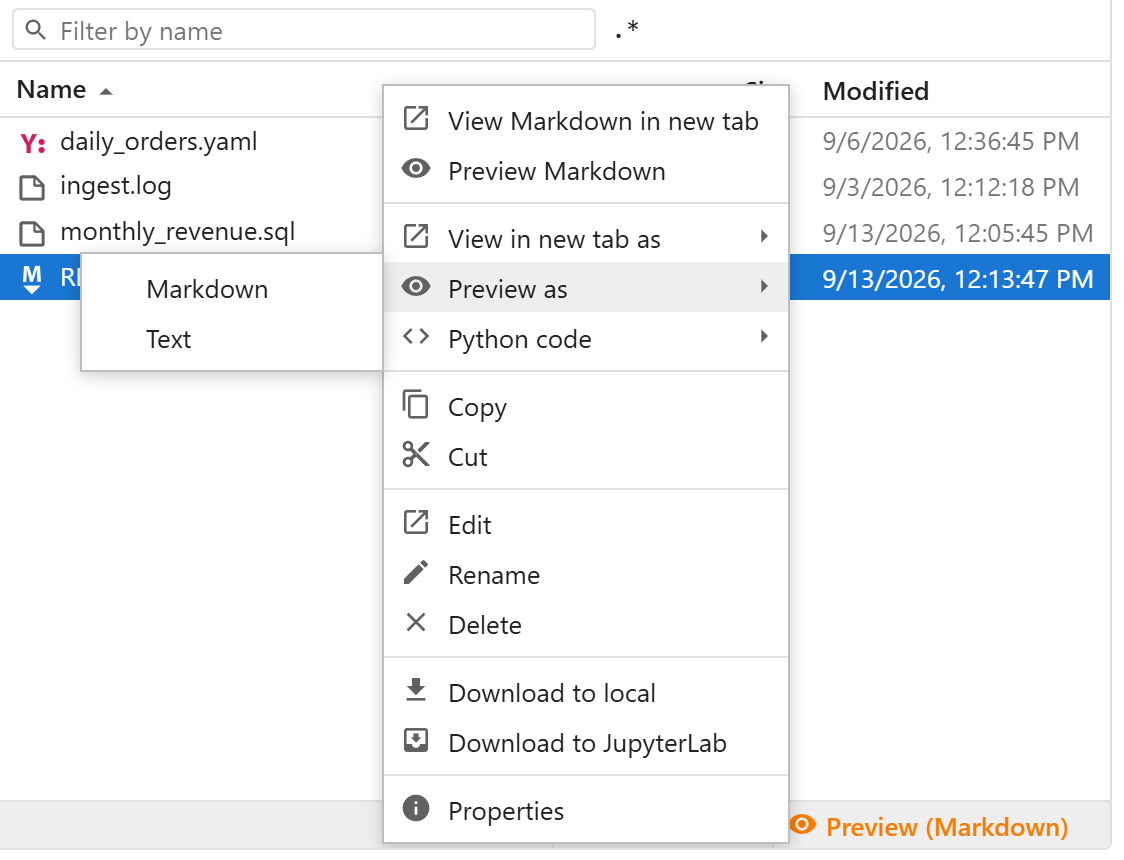
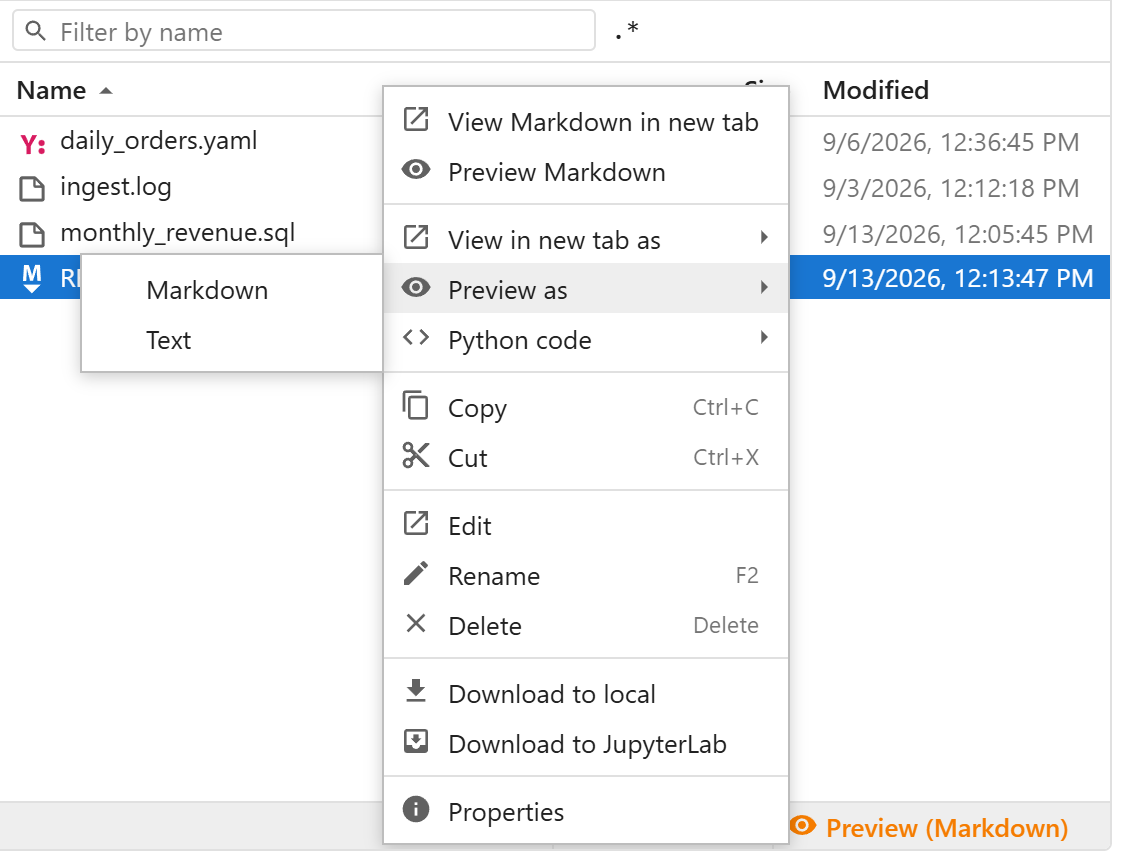
Screenshots of actions; Preview as lists a parent format's view once
- docs/figs/actions-menu.png: the settings menu with Edit actions and
  Reload actions; docs/figs/actions-first.png: the guide's first action in
  a JSON file's Python code. Both made by docs/scripts/actions_menu.py, in
  the action development guide.
- Retaken: using-engine.png (Dask and DuckDB), using-right-click.png and
  using-preview.png (the menu's shortcuts). The other pictures only moved
  by a pixel, and are kept.
- Retaking using-preview.png showed a Markdown file's Preview as listing the
  Text view twice: under Markdown, as views do their format's subclasses,
  and under Text. A view of a format the item also matches is now listed
  under that format only.

Claude-Session: https://claude.ai/code/session_014Sm91yXH7kFY55WrRmWzpD

diff --git a/docs/scripts/actions_menu.py b/docs/scripts/actions_menu.py
@@ -1,0 +1,84 @@
+"""In the action development guide: docs/figs/actions-menu.png, an explorer's
+settings menu (⚙), open, with "Edit actions" and "Reload actions"; and
+docs/figs/actions-first.png, the guide's first action in a JSON file's
+"Python code" submenu.
+
+uv run --group docs docs/scripts/actions_menu.py
+"""
+
+from __future__ import annotations
+
+from typing import TYPE_CHECKING
+
+import _lab
+from _lab import FIGS, box, shot
+
+if TYPE_CHECKING:
+    from _lab import Lab
+
+# The guide's first action, as the user's actions file.
+FIRST_ACTION = '''\
+from jupyter_storage_explorer.formats import Json
+from jupyter_storage_explorer.formats.actions import code
+
+PRETTY_PRINT = """
+import json
+
+import fsspec
+
+with fsspec.open({url!r}) as f:
+    print(json.dumps(json.load(f), indent=4))
+""".strip()
+
+
+@code(format=Json)
+def pretty_print_json(url):
+    return PRETTY_PRINT.format(url=url)
+'''
+
+
+def make(lab: Lab) -> None:
+    with lab.user_actions("first.py", FIRST_ACTION), lab.page(1100, 900) as page:
+        lab.open_notebook(page, _lab.explorer_source(height="320px"))
+        page.wait_for_selector(".jse-tree .jse-node", timeout=60000)
+        page.wait_for_timeout(1500)
+        _lab.calm(page)
+        _, row, menu_item = _lab.explorer_helpers(page)
+
+        # The settings menu, "Edit actions" pointed at.
+        settings = page.locator(".jse-settings-btn").first
+        settings.click()
+        menu = page.locator(".jse-menu:not(.jse-submenu)").first
+        menu.wait_for(state="visible")
+        menu.locator(".jse-menu-item", has_text="Edit actions").hover()
+        page.wait_for_timeout(500)
+        # From the menu's left, the toolbar down to the menu's bottom.
+        y0 = box(page.locator(".jse-toolbar").first)[1]
+        mx0, _, mx1, my1 = box(menu)
+        right = max(box(settings)[2], mx1)
+        shot(page, FIGS / "actions-menu.png", (mx0 - 6, y0, right + 6, my1 + 6), pad=0)
+        page.keyboard.press("Escape")
+        page.wait_for_timeout(300)
+
+        # catalog.json right-clicked: "Python code", with the user's snippet.
+        row("catalog.json").click()
+        row("catalog.json").click(button="right", position={"x": 120, "y": 10})
+        # The menu grows when the item's views arrive: hover after them.
+        menu_item("Preview as").wait_for(state="visible")
+        page.wait_for_timeout(800)
+        menu_item("Python code").hover()
+        mine = page.locator(
+            ".jse-submenu .jse-menu-item:visible", has_text="Pretty print json"
+        )
+        mine.hover()  # kept: moving the mouse away would close the submenu
+        page.wait_for_timeout(800)
+        # The whole menu, and the submenu beside its "Python code".
+        sx0, sy0, _, sy1 = box(mine.locator("xpath=.."))
+        _, my0, mx1, my1 = box(menu_item("Python code").locator("xpath=.."))
+        area = (sx0 - 6, min(sy0, my0) - 6, mx1 + 6, max(sy1, my1) + 6)
+        shot(page, FIGS / "actions-first.png", area, pad=0)
+        page.keyboard.press("Escape")
+
+
+if __name__ == "__main__":
+    _lab.run(make)

diff --git a/src/jupyter_storage_explorer/_explorer/previews.py b/src/jupyter_storage_explorer/_explorer/previews.py
@@ -1093,6 +1093,14 @@ class PreviewsMixin:
         each of the engine's views by name if it has several;
         "recipes", the load code ("Python code"), with their engine's label,
         or the error of an action's. Safe in a worker thread."""
+        # A view of a format the item also matches is listed under that
+        # format only, e.g. the Text view of a Markdown file under Text, not
+        # under Markdown too (a view does its format's subclasses).
+        matched = {type(f) for f in formats}
+
+        def own(f: DataFormat, views: list[ViewAction]) -> list[ViewAction]:
+            return [v for v in views if v.format is type(f) or v.format not in matched]
+
         view = None
         if formats and ctx is not None:
             try:
@@ -1109,7 +1117,8 @@ class PreviewsMixin:
                 for f in formats
                 if ctx is not None
                 for key, views in self._actions.views_by_engine(f, ctx).items()
-                for view in self._view_entries(f, key, views)
+                if (shown := own(f, views))
+                for view in self._view_entries(f, key, shown)
             ],
             # The frontend gets the packages' names, listed under the code.
             "recipes": [

diff --git a/tests/formats/test_actions.py b/tests/formats/test_actions.py
@@ -578,6 +578,16 @@ class TestExplorer:
         duck = [v for v in self.menu_views(explorer, "/a.csv") if v[0] == "duck"]
         assert duck == [("duck", None, "CSV (Duck)")]
 
+    def test_a_parent_formats_view_under_that_format_only(self, memfs):
+        # A Markdown file is also Text: the Text view, which does Markdown
+        # files too, is listed under Text, not again under Markdown.
+        memfs.pipe_file("/a.md", b"# A\n")
+        explorer = StorageExplorer(fs=memfs)
+        assert [v[2] for v in self.menu_views(explorer, "/a.md")] == [
+            "Markdown",
+            "Text",
+        ]
+
     def test_preview_by_id(self, memfs):
         memfs.pipe_file("/a.csv", b"a\n1\n")
         explorer = StorageExplorer(

diff --git a/docs/scripts/make_all.py b/docs/scripts/make_all.py
@@ -6,6 +6,7 @@ uv run --group docs docs/scripts/make_all.py
 from __future__ import annotations
 
 import _lab
+import actions_menu
 import browser
 import data_explorer
 import data_explorer_gif
@@ -22,6 +23,7 @@ SCRIPTS = (
     hero,
     using,
     unsafe,
+    actions_menu,
     browser,
     data_explorer,
     launcher_item,

diff --git a/docs/action-development-guide.md b/docs/action-development-guide.md
@@ -13,7 +13,10 @@ This guide covers actions for your own use. To package them for others, see the
 ## Your actions file
 
 Your actions go in `~/.jupyter/storage-explorer/actions.py`. The ⚙ menu's **Edit actions** opens it in JupyterLab's
-editor, and creates it from a commented example if it is missing. Without the launcher's JupyterLab extension, which
+editor, and creates it from a commented example if it is missing.
+
+<img src="figs/actions-menu.png" width="164" alt="The explorer's settings menu, open: Columns, Edit actions, Reload actions and About">
+ Without the launcher's JupyterLab extension, which
 `jupyter-storage-explorer-launcher` installs, edit the file in any editor.
 
 In addition, you can store actions in Python files under `~/.jupyter/storage-explorer/actions/`:
@@ -52,6 +55,9 @@ def pretty_print_json(url):
 
 Save it in your actions file, and choose **Reload actions** in the explorer's ⚙ menu. Right-click a file named
 `*.json`: **Python code** now offers "Pretty print json".
+
+<img src="figs/actions-first.png" width="417" alt="A JSON file's right-click menu, Python code open: Pretty print json (Python) beside the built-in snippets">
+
 
 The template is a multi-line string, with `{url!r}` where the file's URL goes, in quotes. `.strip()` removes the
 blank lines around it.

diff --git a/docs/scripts/README.md b/docs/scripts/README.md
@@ -16,6 +16,7 @@ the pictures are taken at 2× (`data-explorer.png`, `launcher.png` and the GIFs 
 | `hero.py`                 | `docs/figs/storage-explorer.png`                                      |
 | `using.py`                | `docs/figs/using-*.png` ("Using the explorer")                        |
 | `unsafe.py`               | `docs/figs/unsafe-mode.png`                                           |
+| `actions_menu.py`         | `docs/figs/actions-*.png` (Edit and Reload actions; the first action) |
 | `browser.py`              | `docs/figs/browser-*.png` ("Using the data browser")                  |
 | `data_explorer.py`        | `docs/figs/data-explorer.png`                                         |
 | `launcher_item.py`        | `launcher/figs/launcher.png`                                          |
